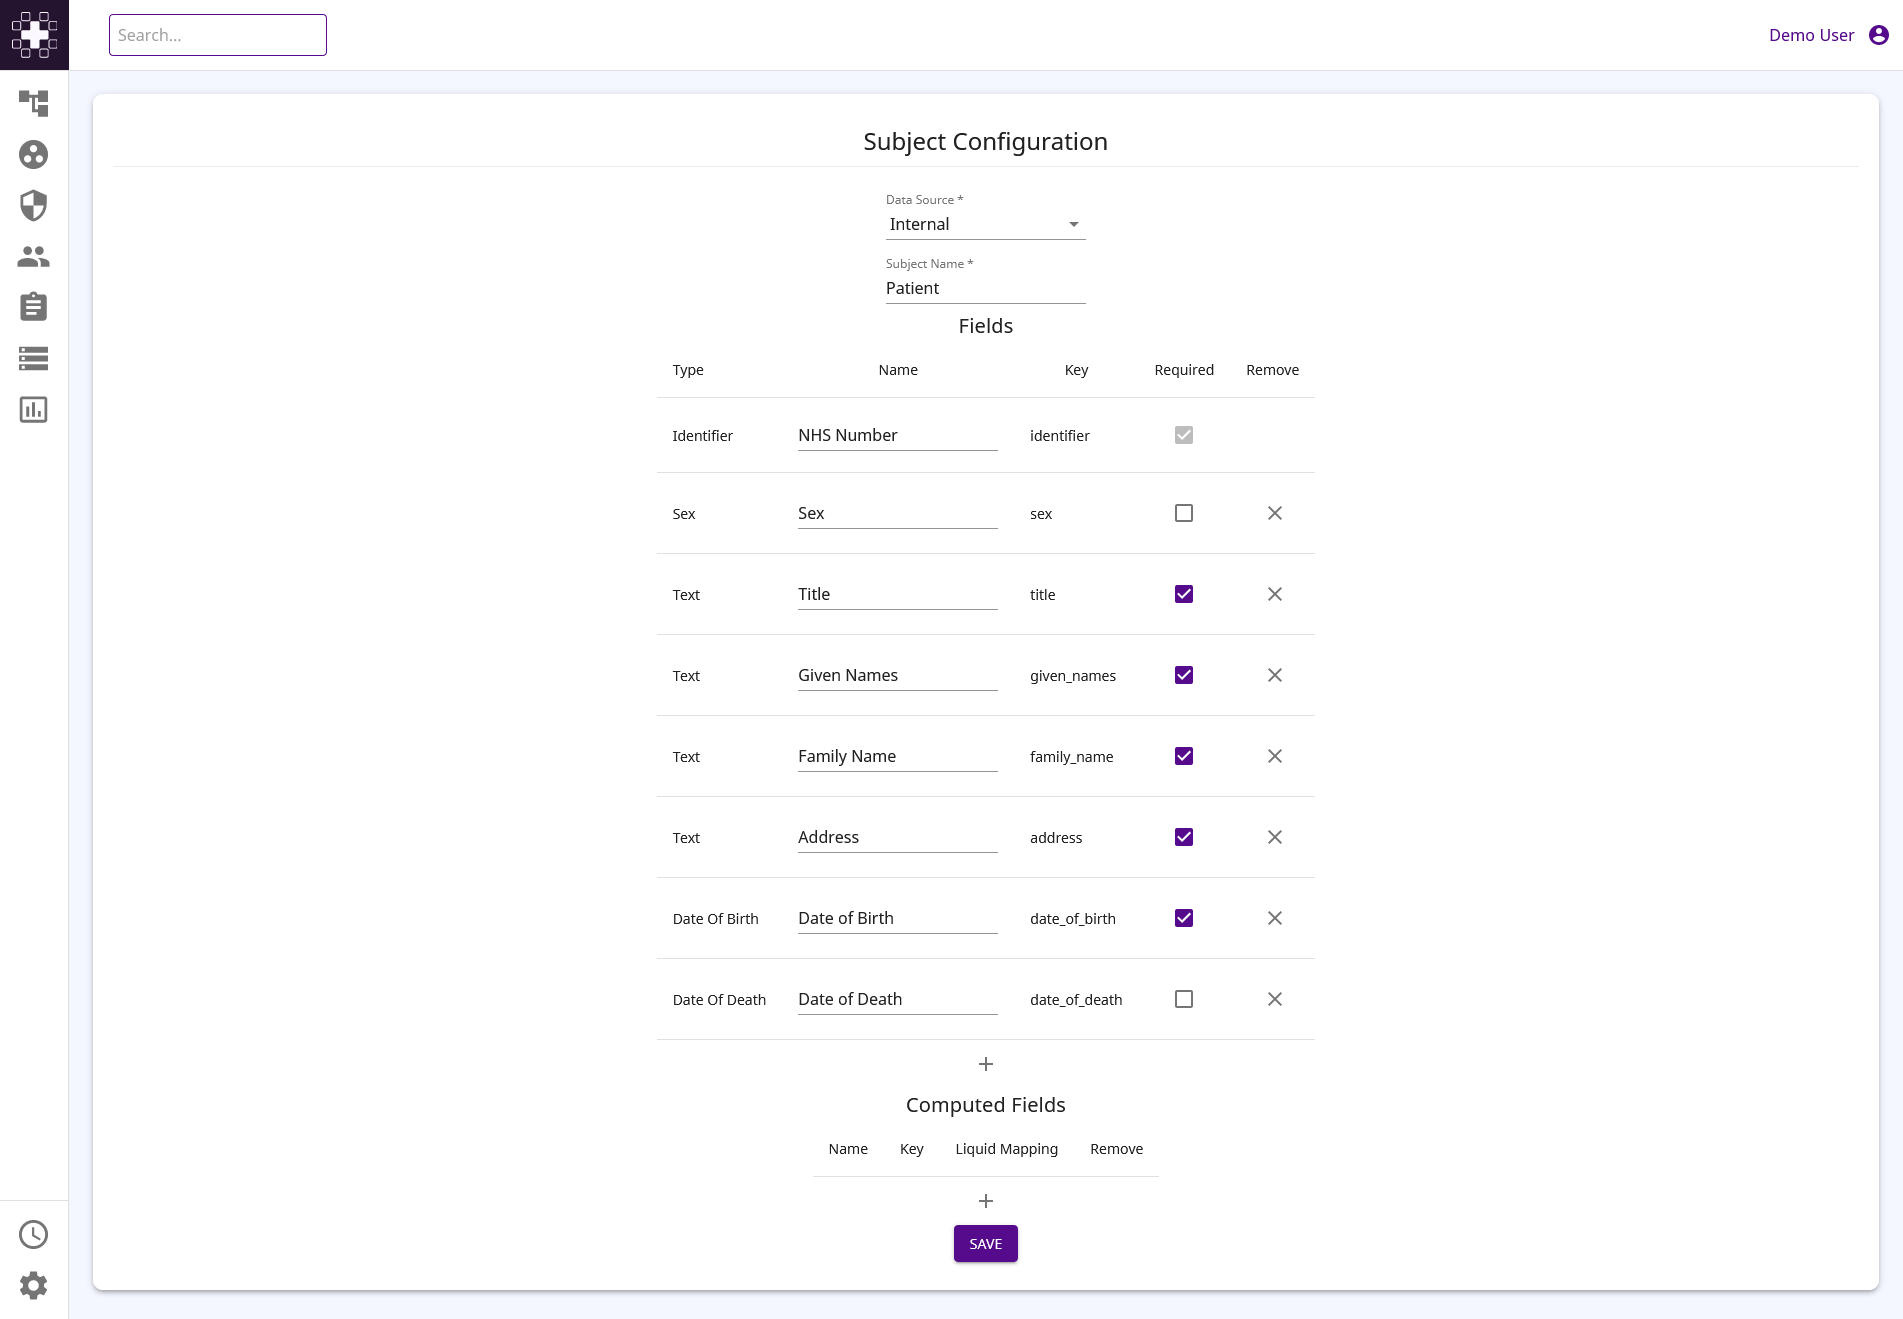
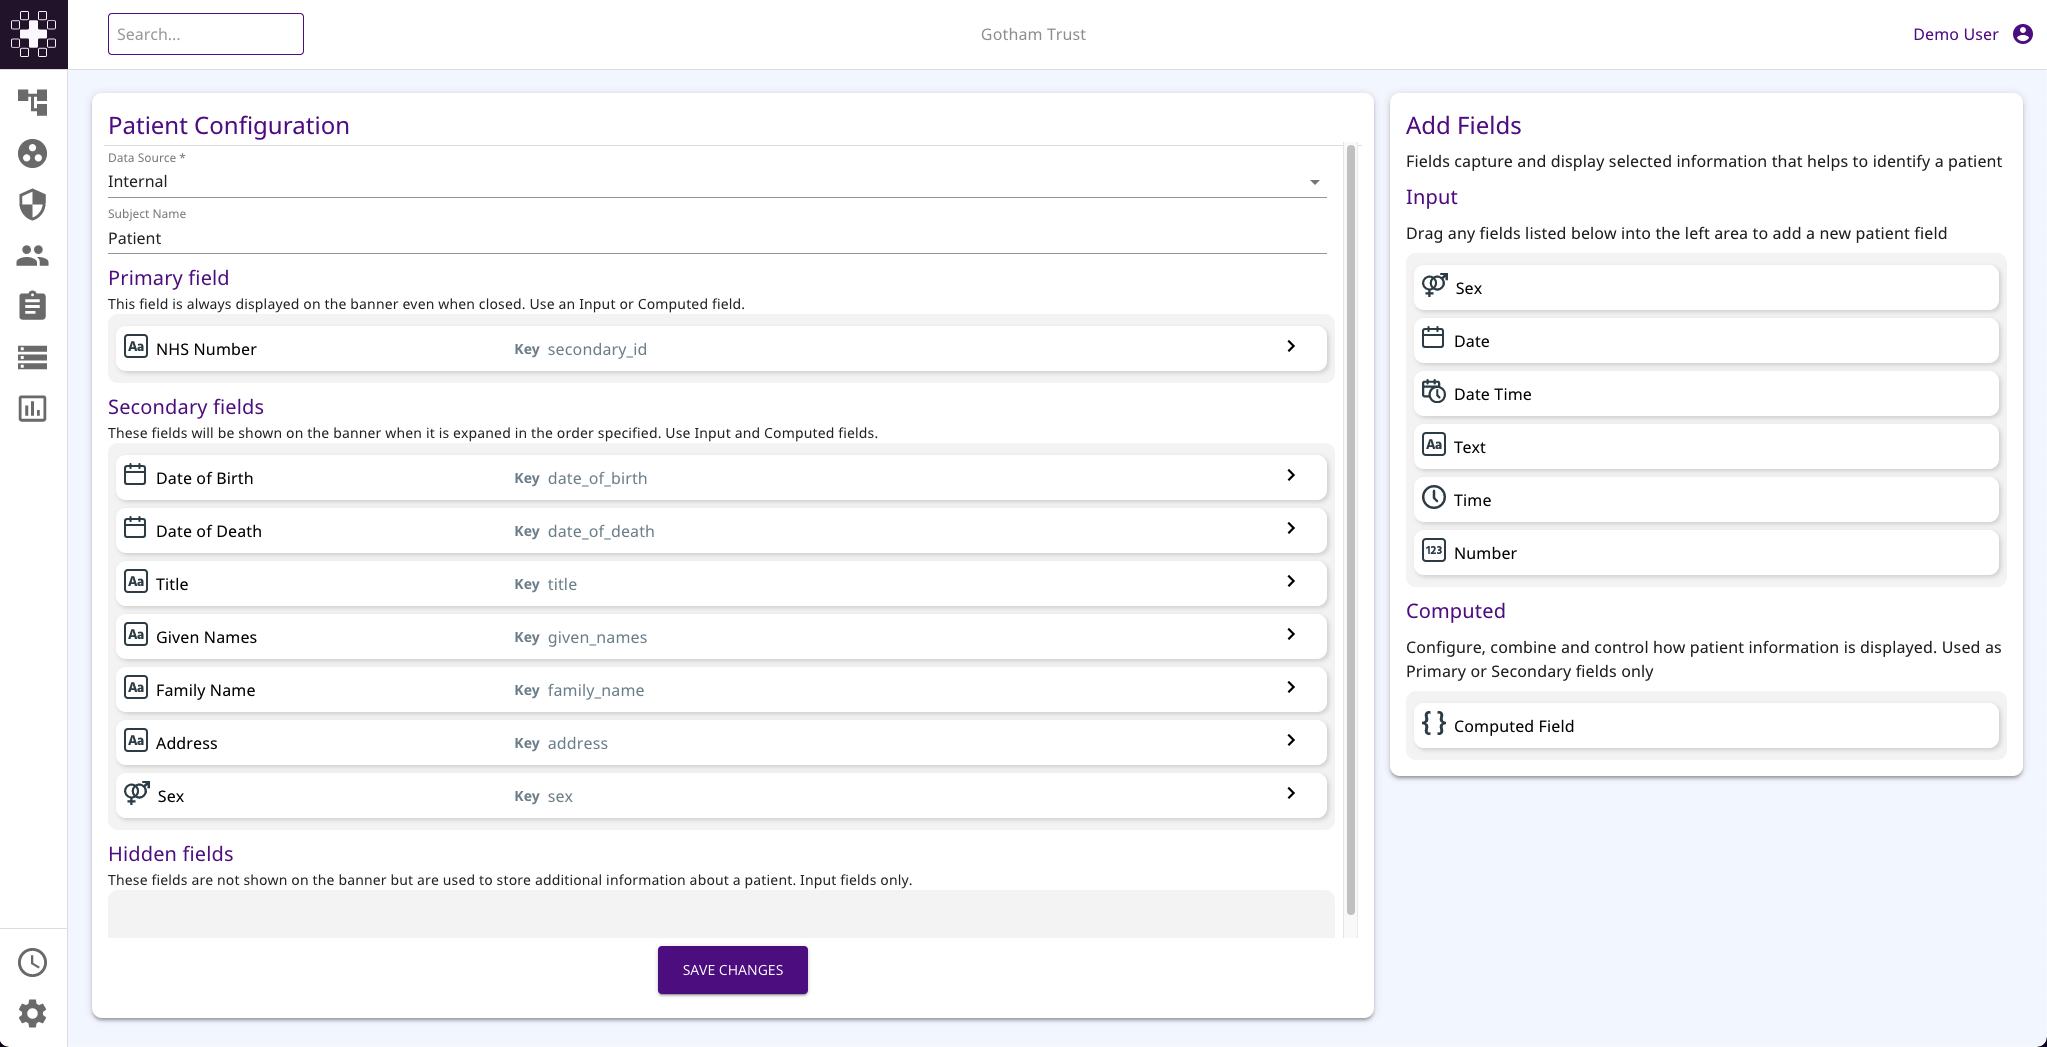
Website auto build on 12/08/2021 10:28:23

diff --git a/docs/subject-configuration/index.html b/docs/subject-configuration/index.html
@@ -17,11 +17,11 @@
 <meta property="og:url" content="https://docs.aireframe.com/docs/subject-configuration/" />
 <meta property="og:site_name" content="AireFrame Docs" />
 <meta property="og:type" content="article" />
-<meta property="article:published_time" content="2021-07-08T00:00:00+00:00" />
+<meta property="article:published_time" content="2021-12-07T00:00:00+00:00" />
 <meta name="twitter:card" content="summary" />
 <meta property="twitter:title" content="Subject Configuration" />
 <script type="application/ld+json">
-{"headline":"Subject Configuration","dateModified":"2021-07-08T00:00:00+00:00","datePublished":"2021-07-08T00:00:00+00:00","description":"This page explains how to change the subject configuration in AireFrame. For example you may want to change the name of the subject or add/remove custom fields.","@type":"BlogPosting","mainEntityOfPage":{"@type":"WebPage","@id":"https://docs.aireframe.com/docs/subject-configuration/"},"url":"https://docs.aireframe.com/docs/subject-configuration/","author":{"@type":"Person","name":"Danny Heard, Karsten Lloyd"},"@context":"https://schema.org"}</script>
+{"headline":"Subject Configuration","dateModified":"2021-12-07T00:00:00+00:00","datePublished":"2021-12-07T00:00:00+00:00","description":"This page explains how to change the subject configuration in AireFrame. For example you may want to change the name of the subject or add/remove custom fields.","@type":"BlogPosting","mainEntityOfPage":{"@type":"WebPage","@id":"https://docs.aireframe.com/docs/subject-configuration/"},"url":"https://docs.aireframe.com/docs/subject-configuration/","author":{"@type":"Person","name":"Danny Heard, Karsten Lloyd"},"@context":"https://schema.org"}</script>
 <!-- End Jekyll SEO tag -->
 
   <meta property="og:image" content="https://docs.aireframe.com/assets/posts/"/>
@@ -232,9 +232,9 @@
 
 
 
-<time datetime="2021-07-08T00:00:00+00:00" itemprop="datePublished">
+<time datetime="2021-12-07T00:00:00+00:00" itemprop="datePublished">
     
-    Jul 8, 2021
+    Dec 7, 2021
 </time>
 
                     </div>
@@ -269,11 +269,21 @@
 <p>Here you can:</p>
 <ul>
   <li>Change the subject name</li>
-  <li>Change the name of an existing custom or computed field</li>
-  <li>Change whether a custom field should be required or not</li>
-  <li>Remove an existing custom or computed field</li>
-  <li>Add a custom field - There are a few different types available, click the plus (+) button to see what they are</li>
-  <li>Add a computed field - See <a href="#computed-fields">below</a> for more information</li>
+  <li>Change the subject provider</li>
+  <li>Change the properties of the custom fields</li>
+  <li>Remove a custom field</li>
+  <li>Add a custom field - drag new fields from the left hand side into the relevant section</li>
+  <li>Re-order the subject banner - drag and drop fields to re-arrange</li>
+</ul>
+
+<h4 id="subject-banner-grouping">Subject banner grouping</h4>
+
+<p>On this page you can re-order the custom fields to alter how they are shown on the subject banner.</p>
+
+<ul>
+  <li>Primary field - A single field that is shown at the top of the banner, even when minimised</li>
+  <li>Secondary fields - These fields are shown when the banner is expanded, in the specified order (top to bottom)</li>
+  <li>Hidden fields - These are input fields that are not shown on the subject banner but still appear in subject forms. E.g. You can capture information about a subject using several input fields; then use a computed field to join these together and hide the induvidual fields.</li>
 </ul>
 
 <h4 id="computed-fields">Computed Fields</h4>

diff --git a/changelog/index.html b/changelog/index.html
@@ -141,10 +141,30 @@
                 
                 <div class="tm-timeline-entry">
                     <div class="tm-timeline-time">
+                        <h5>Dec 8, 2021</h5>
+                    </div>
+                    <div class="tm-timeline-body">
+                        <h3>Version 1.0.0 <span class="uk-label">Improved Subject Configuration</span></h3>
+                        <ul class="uk-list">
+                            
+                            <li>Group subject fields into Primary/Secondary/Hidden to alter the subject banner</li>
+                            
+                            <li>View data extract</li>
+                            
+                            <li>Support input fields on perform actions</li>
+                            
+                            <li>Improved subject search</li>
+                            
+                        </ul>
+                    </div>
+                </div>
+                
+                <div class="tm-timeline-entry">
+                    <div class="tm-timeline-time">
                         <h5>Nov 11, 2021</h5>
                     </div>
                     <div class="tm-timeline-body">
-                        <h3>Version 0.43.0 <span class="uk-label">Upgrades</span></h3>
+                        <h3>Version 0.43.0 <span class="uk-label">Version Upgrades</span></h3>
                         <ul class="uk-list">
                             
                             <li>Upgrade to F4H 5.8.0</li>

diff --git a/docs/subject-provider/index.html b/docs/subject-provider/index.html
@@ -354,27 +354,27 @@
     
 
     
+
+    
+
+    
+    
+
+    
+
+    
+
+    
+
+    
+    
+
+    
+
+    
         <li><a href="/docs/subject-configuration/">Subject Configuration</a></li>
         
         
-    
-
-    
-
-    
-    
-
-    
-
-    
-
-    
-
-    
-    
-
-    
-
     
 
     

diff --git a/docs/visualisation-designer/index.html b/docs/visualisation-designer/index.html
@@ -432,18 +432,18 @@
     
 
     
-
-    
-
-    
-    
-
-    
-
-    
         <li><a href="/docs/data-extract-config/">Data Extracts</a></li>
         
         
+    
+
+    
+
+    
+    
+
+    
+
     
 
     
